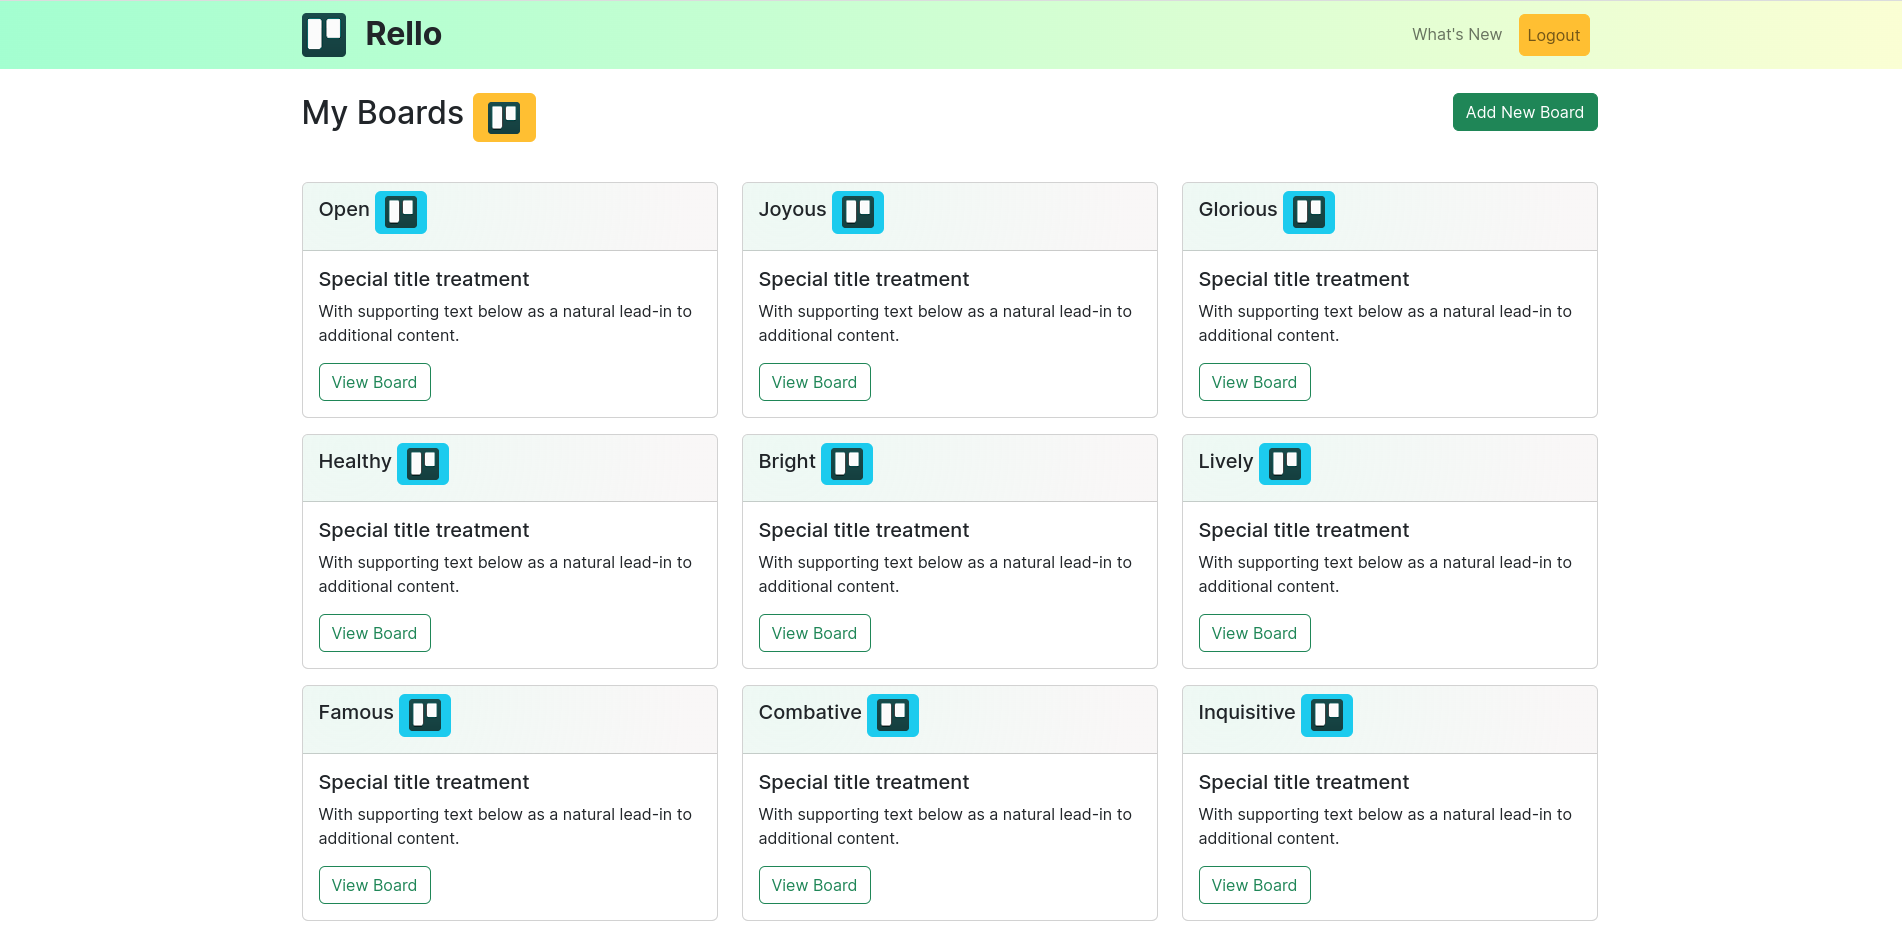
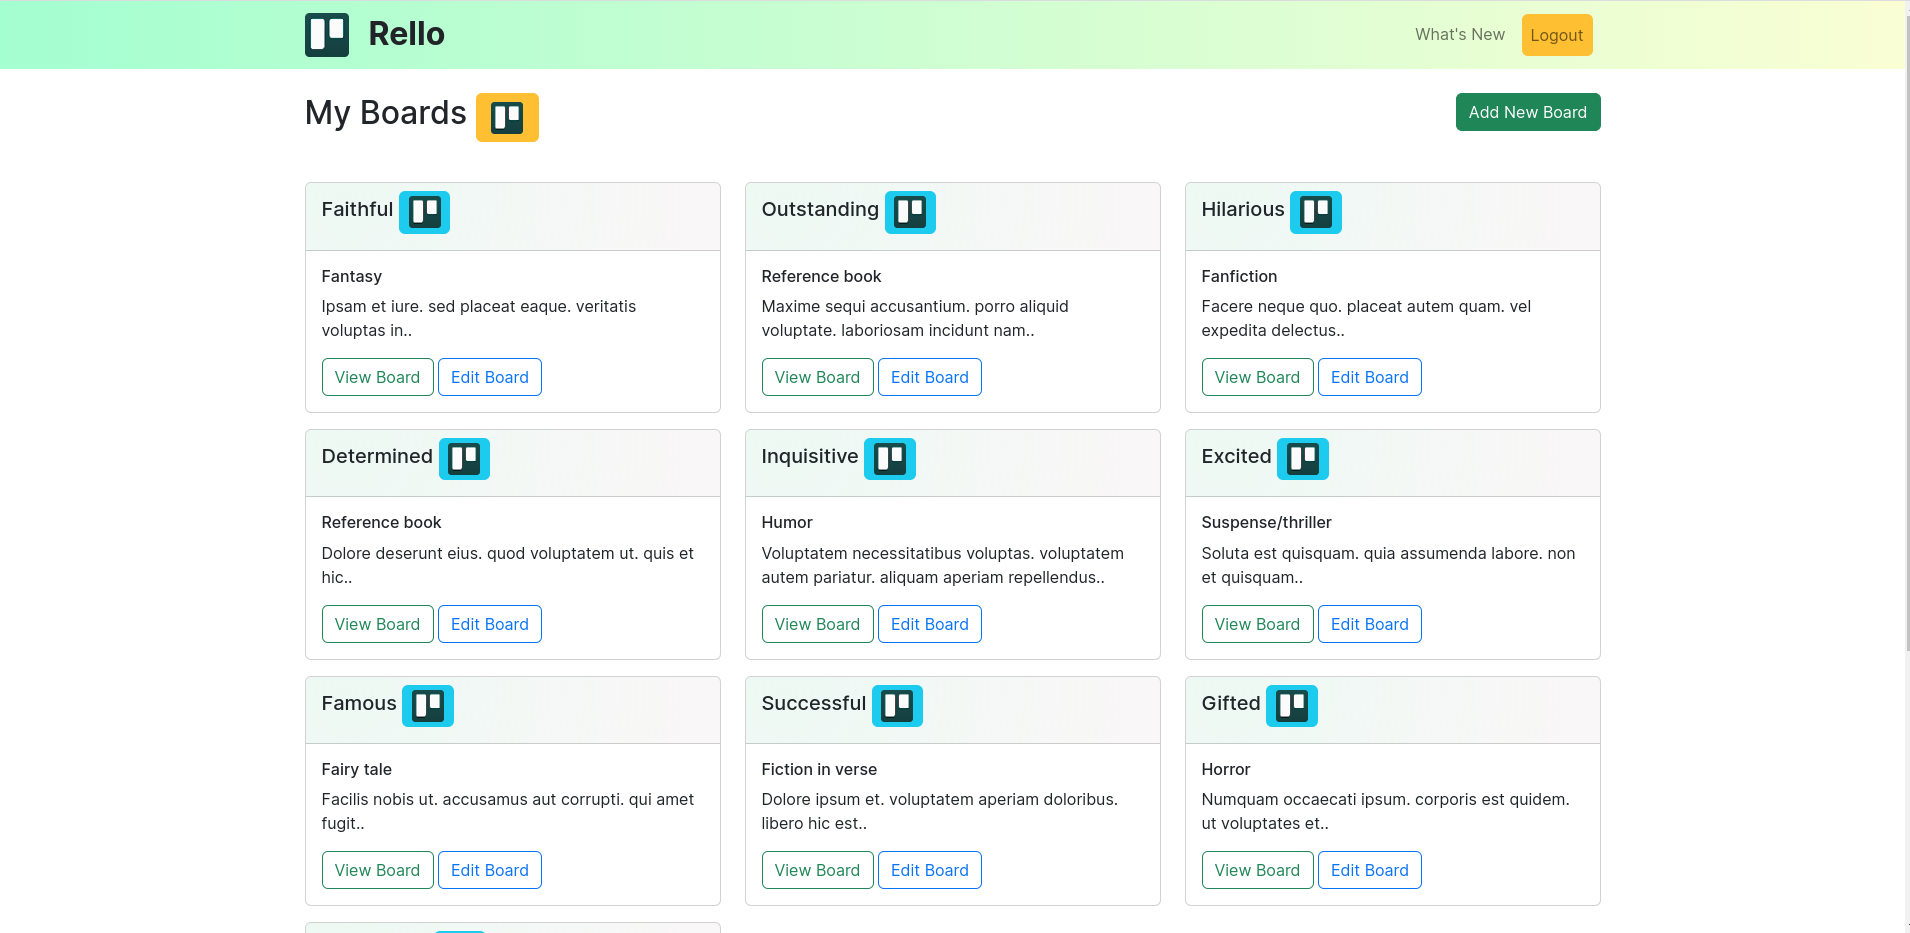
Board attributes

diff --git a/db/schema.rb b/db/schema.rb
@@ -1,5 +1,3 @@
-# frozen_string_literal: true
-
 # This file is auto-generated from the current state of the database. Instead
 # of editing this file, please use the migrations feature of Active Record to
 # incrementally modify your database, and then regenerate this schema definition.
@@ -12,118 +10,118 @@
 #
 # It's strongly recommended that you check this file into your version control system.
 
-ActiveRecord::Schema[7.0].define(version: 20_221_008_110_614) do
+ActiveRecord::Schema[7.0].define(version: 2022_10_08_110614) do
   # These are extensions that must be enabled in order to support this database
-  enable_extension 'plpgsql'
+  enable_extension "plpgsql"
 
-  create_table 'active_storage_attachments', force: :cascade do |t|
-    t.string 'name', null: false
-    t.string 'record_type', null: false
-    t.bigint 'record_id', null: false
-    t.bigint 'blob_id', null: false
-    t.datetime 'created_at', null: false
-    t.index ['blob_id'], name: 'index_active_storage_attachments_on_blob_id'
-    t.index %w[record_type record_id name blob_id], name: 'index_active_storage_attachments_uniqueness',
-                                                    unique: true
+  create_table "active_storage_attachments", force: :cascade do |t|
+    t.string "name", null: false
+    t.string "record_type", null: false
+    t.bigint "record_id", null: false
+    t.bigint "blob_id", null: false
+    t.datetime "created_at", null: false
+    t.index ["blob_id"], name: "index_active_storage_attachments_on_blob_id"
+    t.index ["record_type", "record_id", "name", "blob_id"], name: "index_active_storage_attachments_uniqueness", unique: true
   end
 
-  create_table 'active_storage_blobs', force: :cascade do |t|
-    t.string 'key', null: false
-    t.string 'filename', null: false
-    t.string 'content_type'
-    t.text 'metadata'
-    t.string 'service_name', null: false
-    t.bigint 'byte_size', null: false
-    t.string 'checksum'
-    t.datetime 'created_at', null: false
-    t.index ['key'], name: 'index_active_storage_blobs_on_key', unique: true
+  create_table "active_storage_blobs", force: :cascade do |t|
+    t.string "key", null: false
+    t.string "filename", null: false
+    t.string "content_type"
+    t.text "metadata"
+    t.string "service_name", null: false
+    t.bigint "byte_size", null: false
+    t.string "checksum"
+    t.datetime "created_at", null: false
+    t.index ["key"], name: "index_active_storage_blobs_on_key", unique: true
   end
 
-  create_table 'active_storage_variant_records', force: :cascade do |t|
-    t.bigint 'blob_id', null: false
-    t.string 'variation_digest', null: false
-    t.index %w[blob_id variation_digest], name: 'index_active_storage_variant_records_uniqueness', unique: true
+  create_table "active_storage_variant_records", force: :cascade do |t|
+    t.bigint "blob_id", null: false
+    t.string "variation_digest", null: false
+    t.index ["blob_id", "variation_digest"], name: "index_active_storage_variant_records_uniqueness", unique: true
   end
 
-  create_table 'announcements', force: :cascade do |t|
-    t.datetime 'published_at'
-    t.string 'announcement_type'
-    t.string 'name'
-    t.text 'description'
-    t.datetime 'created_at', null: false
-    t.datetime 'updated_at', null: false
+  create_table "announcements", force: :cascade do |t|
+    t.datetime "published_at"
+    t.string "announcement_type"
+    t.string "name"
+    t.text "description"
+    t.datetime "created_at", null: false
+    t.datetime "updated_at", null: false
   end
 
-  create_table 'boards', force: :cascade do |t|
-    t.string 'name'
-    t.bigint 'user_id', null: false
-    t.datetime 'created_at', null: false
-    t.datetime 'updated_at', null: false
-    t.index ['user_id'], name: 'index_boards_on_user_id'
+  create_table "boards", force: :cascade do |t|
+    t.string "name"
+    t.string "category"
+    t.string "description"
+    t.bigint "user_id", null: false
+    t.datetime "created_at", null: false
+    t.datetime "updated_at", null: false
+    t.index ["user_id"], name: "index_boards_on_user_id"
   end
 
-  create_table 'friendly_id_slugs', force: :cascade do |t|
-    t.string 'slug', null: false
-    t.integer 'sluggable_id', null: false
-    t.string 'sluggable_type', limit: 50
-    t.string 'scope'
-    t.datetime 'created_at'
-    t.index %w[slug sluggable_type scope], name: 'index_friendly_id_slugs_on_slug_and_sluggable_type_and_scope',
-                                           unique: true
-    t.index %w[slug sluggable_type], name: 'index_friendly_id_slugs_on_slug_and_sluggable_type'
-    t.index %w[sluggable_type sluggable_id], name: 'index_friendly_id_slugs_on_sluggable_type_and_sluggable_id'
+  create_table "friendly_id_slugs", force: :cascade do |t|
+    t.string "slug", null: false
+    t.integer "sluggable_id", null: false
+    t.string "sluggable_type", limit: 50
+    t.string "scope"
+    t.datetime "created_at"
+    t.index ["slug", "sluggable_type", "scope"], name: "index_friendly_id_slugs_on_slug_and_sluggable_type_and_scope", unique: true
+    t.index ["slug", "sluggable_type"], name: "index_friendly_id_slugs_on_slug_and_sluggable_type"
+    t.index ["sluggable_type", "sluggable_id"], name: "index_friendly_id_slugs_on_sluggable_type_and_sluggable_id"
   end
 
-  create_table 'notifications', force: :cascade do |t|
-    t.string 'recipient_type', null: false
-    t.bigint 'recipient_id', null: false
-    t.string 'type', null: false
-    t.jsonb 'params'
-    t.datetime 'read_at'
-    t.datetime 'created_at', null: false
-    t.datetime 'updated_at', null: false
-    t.index ['read_at'], name: 'index_notifications_on_read_at'
-    t.index %w[recipient_type recipient_id], name: 'index_notifications_on_recipient'
+  create_table "notifications", force: :cascade do |t|
+    t.string "recipient_type", null: false
+    t.bigint "recipient_id", null: false
+    t.string "type", null: false
+    t.jsonb "params"
+    t.datetime "read_at"
+    t.datetime "created_at", null: false
+    t.datetime "updated_at", null: false
+    t.index ["read_at"], name: "index_notifications_on_read_at"
+    t.index ["recipient_type", "recipient_id"], name: "index_notifications_on_recipient"
   end
 
-  create_table 'services', force: :cascade do |t|
-    t.bigint 'user_id', null: false
-    t.string 'provider'
-    t.string 'uid'
-    t.string 'access_token'
-    t.string 'access_token_secret'
-    t.string 'refresh_token'
-    t.datetime 'expires_at'
-    t.text 'auth'
-    t.datetime 'created_at', null: false
-    t.datetime 'updated_at', null: false
-    t.index ['user_id'], name: 'index_services_on_user_id'
+  create_table "services", force: :cascade do |t|
+    t.bigint "user_id", null: false
+    t.string "provider"
+    t.string "uid"
+    t.string "access_token"
+    t.string "access_token_secret"
+    t.string "refresh_token"
+    t.datetime "expires_at"
+    t.text "auth"
+    t.datetime "created_at", null: false
+    t.datetime "updated_at", null: false
+    t.index ["user_id"], name: "index_services_on_user_id"
   end
 
-  create_table 'users', force: :cascade do |t|
-    t.string 'email', default: '', null: false
-    t.string 'encrypted_password', default: '', null: false
-    t.string 'reset_password_token'
-    t.datetime 'reset_password_sent_at'
-    t.datetime 'remember_created_at'
-    t.integer 'sign_in_count', default: 0, null: false
-    t.datetime 'current_sign_in_at'
-    t.datetime 'last_sign_in_at'
-    t.string 'current_sign_in_ip'
-    t.string 'last_sign_in_ip'
-    t.string 'first_name'
-    t.string 'last_name'
-    t.datetime 'announcements_last_read_at'
-    t.boolean 'admin', default: false
-    t.integer 'role', default: 0
-    t.datetime 'created_at', null: false
-    t.datetime 'updated_at', null: false
-    t.index ['email'], name: 'index_users_on_email', unique: true
-    t.index ['reset_password_token'], name: 'index_users_on_reset_password_token', unique: true
+  create_table "users", force: :cascade do |t|
+    t.string "email", default: "", null: false
+    t.string "encrypted_password", default: "", null: false
+    t.string "reset_password_token"
+    t.datetime "reset_password_sent_at"
+    t.datetime "remember_created_at"
+    t.integer "sign_in_count", default: 0, null: false
+    t.datetime "current_sign_in_at"
+    t.datetime "last_sign_in_at"
+    t.string "current_sign_in_ip"
+    t.string "last_sign_in_ip"
+    t.string "first_name"
+    t.string "last_name"
+    t.datetime "announcements_last_read_at"
+    t.boolean "admin", default: false
+    t.integer "role", default: 0
+    t.datetime "created_at", null: false
+    t.datetime "updated_at", null: false
+    t.index ["email"], name: "index_users_on_email", unique: true
+    t.index ["reset_password_token"], name: "index_users_on_reset_password_token", unique: true
   end
 
-  add_foreign_key 'active_storage_attachments', 'active_storage_blobs', column: 'blob_id'
-  add_foreign_key 'active_storage_variant_records', 'active_storage_blobs', column: 'blob_id'
-  add_foreign_key 'boards', 'users'
-  add_foreign_key 'services', 'users'
+  add_foreign_key "active_storage_attachments", "active_storage_blobs", column: "blob_id"
+  add_foreign_key "active_storage_variant_records", "active_storage_blobs", column: "blob_id"
+  add_foreign_key "boards", "users"
+  add_foreign_key "services", "users"
 end

diff --git a/spec/policies/board_policy_spec.rb b/spec/policies/board_policy_spec.rb
@@ -1,0 +1,22 @@
+require 'rails_helper'
+
+RSpec.describe BoardPolicy, type: :policy do
+  let(:user) { User.new }
+
+  subject { described_class }
+
+  permissions ".scope" do
+  end
+
+  permissions :show? do
+  end
+
+  permissions :create? do
+  end
+
+  permissions :update? do
+  end
+
+  permissions :destroy? do
+  end
+end

diff --git a/db/migrate/20221008110614_create_boards.rb b/db/migrate/20221008110614_create_boards.rb
@@ -4,6 +4,8 @@ class CreateBoards < ActiveRecord::Migration[7.0]
   def change
     create_table :boards do |t|
       t.string :name
+      t.string :category
+      t.string :description
       t.references :user, null: false, foreign_key: true
 
       t.timestamps

diff --git a/app/policies/board_policy.rb b/app/policies/board_policy.rb
@@ -1,0 +1,10 @@
+class BoardPolicy < ApplicationPolicy
+    # NOTE: Be explicit about which records you allow access to!
+    def permitted_attributes 
+    [:name] if user.admin? || user.owner_of?(record)
+    end
+
+  def edit?
+    record.user == user
+  end
+end

diff --git a/app/controllers/boards_controller.rb b/app/controllers/boards_controller.rb
@@ -22,7 +22,10 @@ class BoardsController < ApplicationController
   end
 
   # GET /boards/1/edit
-  def edit; end
+  def edit
+    @board = Board.find(params[:id])
+    authorize @board
+  end
 
   # POST /boards or /boards.json
   def create

diff --git a/db/seeds.rb b/db/seeds.rb
@@ -17,6 +17,8 @@ end
 (1..10).each do |_id|
   Board.create!(
     name: Faker::Adjective.unique.positive,
+    category: Faker::Book.genre,
+    description: Faker::Lorem.paragraph,
     user_id: User.all.sample.id
   )
 end
